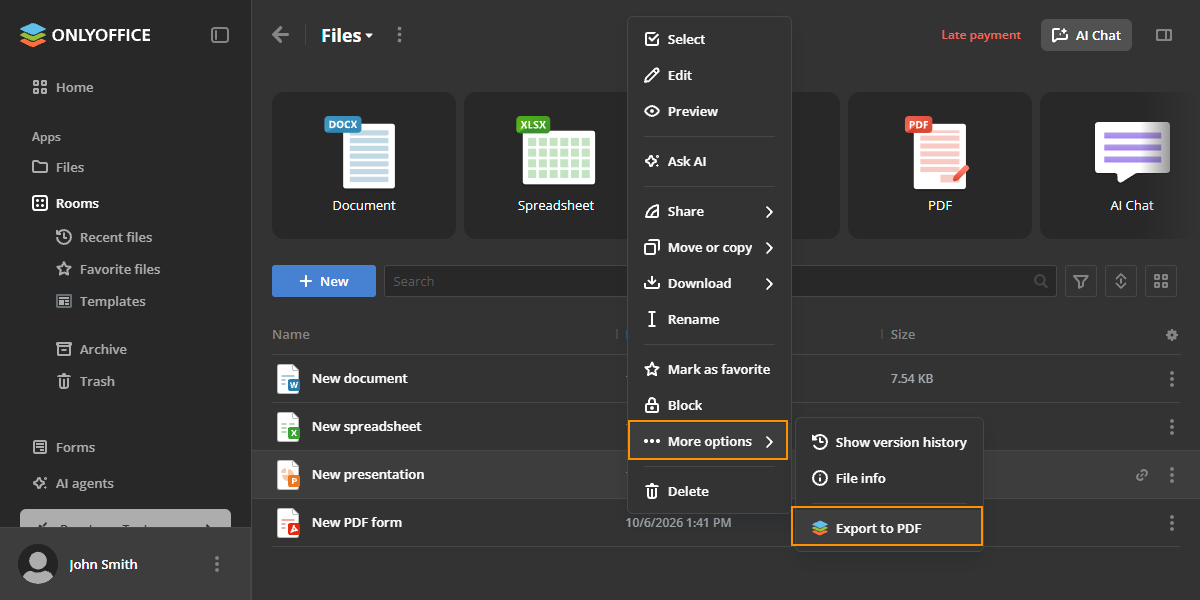
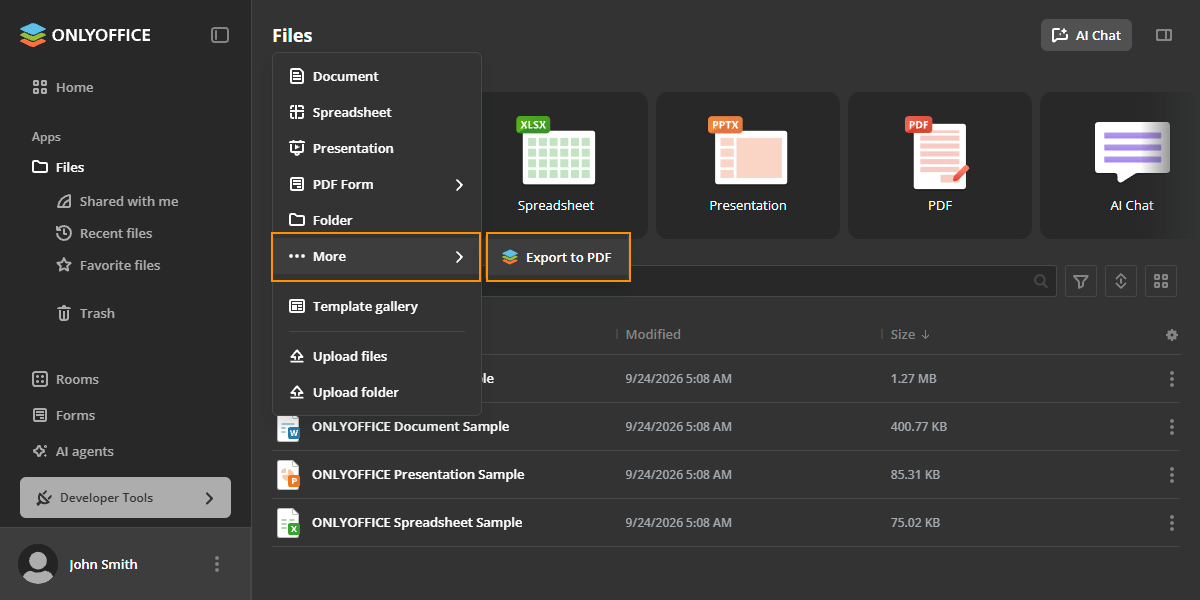
docs(plugin-sdk): Mainbutton update

diff --git a/site/docspace/plugins-sdk/usage-sdk/coding-plugin/interfaces/items/IMainButtonItem.md b/site/docspace/plugins-sdk/usage-sdk/coding-plugin/interfaces/items/IMainButtonItem.md
@@ -2,12 +2,16 @@
 
 [View source on GitHub](https://github.com/ONLYOFFICE/docspace-plugin-sdk/blob/master/src/interfaces/items/IMainButtonItem.ts#L94)
 
-Describes an item that will be embedded in the More item of the main button menu. It is available only inside a room (folder) and is not available for the room list.
+Describes an item that will be embedded in the More item of the main button menu. It is available in Files section and inside a Room (folder). It is not available for the room list or Forms section.
+
+To open this menu, click **New** button and select **More** submenu.
+
+![main-button-menu](/assets/images/docspace/main-button-plugin-menu.png#gh-light-mode-only)![main-button-menu](/assets/images/docspace/main-button-plugin-menu.dark.png#gh-dark-mode-only)
+
+![main-button-plugin](/assets/images/docspace/main-button-plugin.png#gh-light-mode-only)![main-button-plugin](/assets/images/docspace/main-button-plugin.dark.png#gh-dark-mode-only)
 
 Items are registered by a plugin implementing
 [`IMainButtonPlugin`](../plugins/IMainButtonPlugin.md).
-
-![main-button-plugin](/assets/images/docspace/main-button-plugin.png#gh-light-mode-only)![main-button-plugin](/assets/images/docspace/main-button-plugin.dark.png#gh-dark-mode-only)
 
 ## Examples
 
